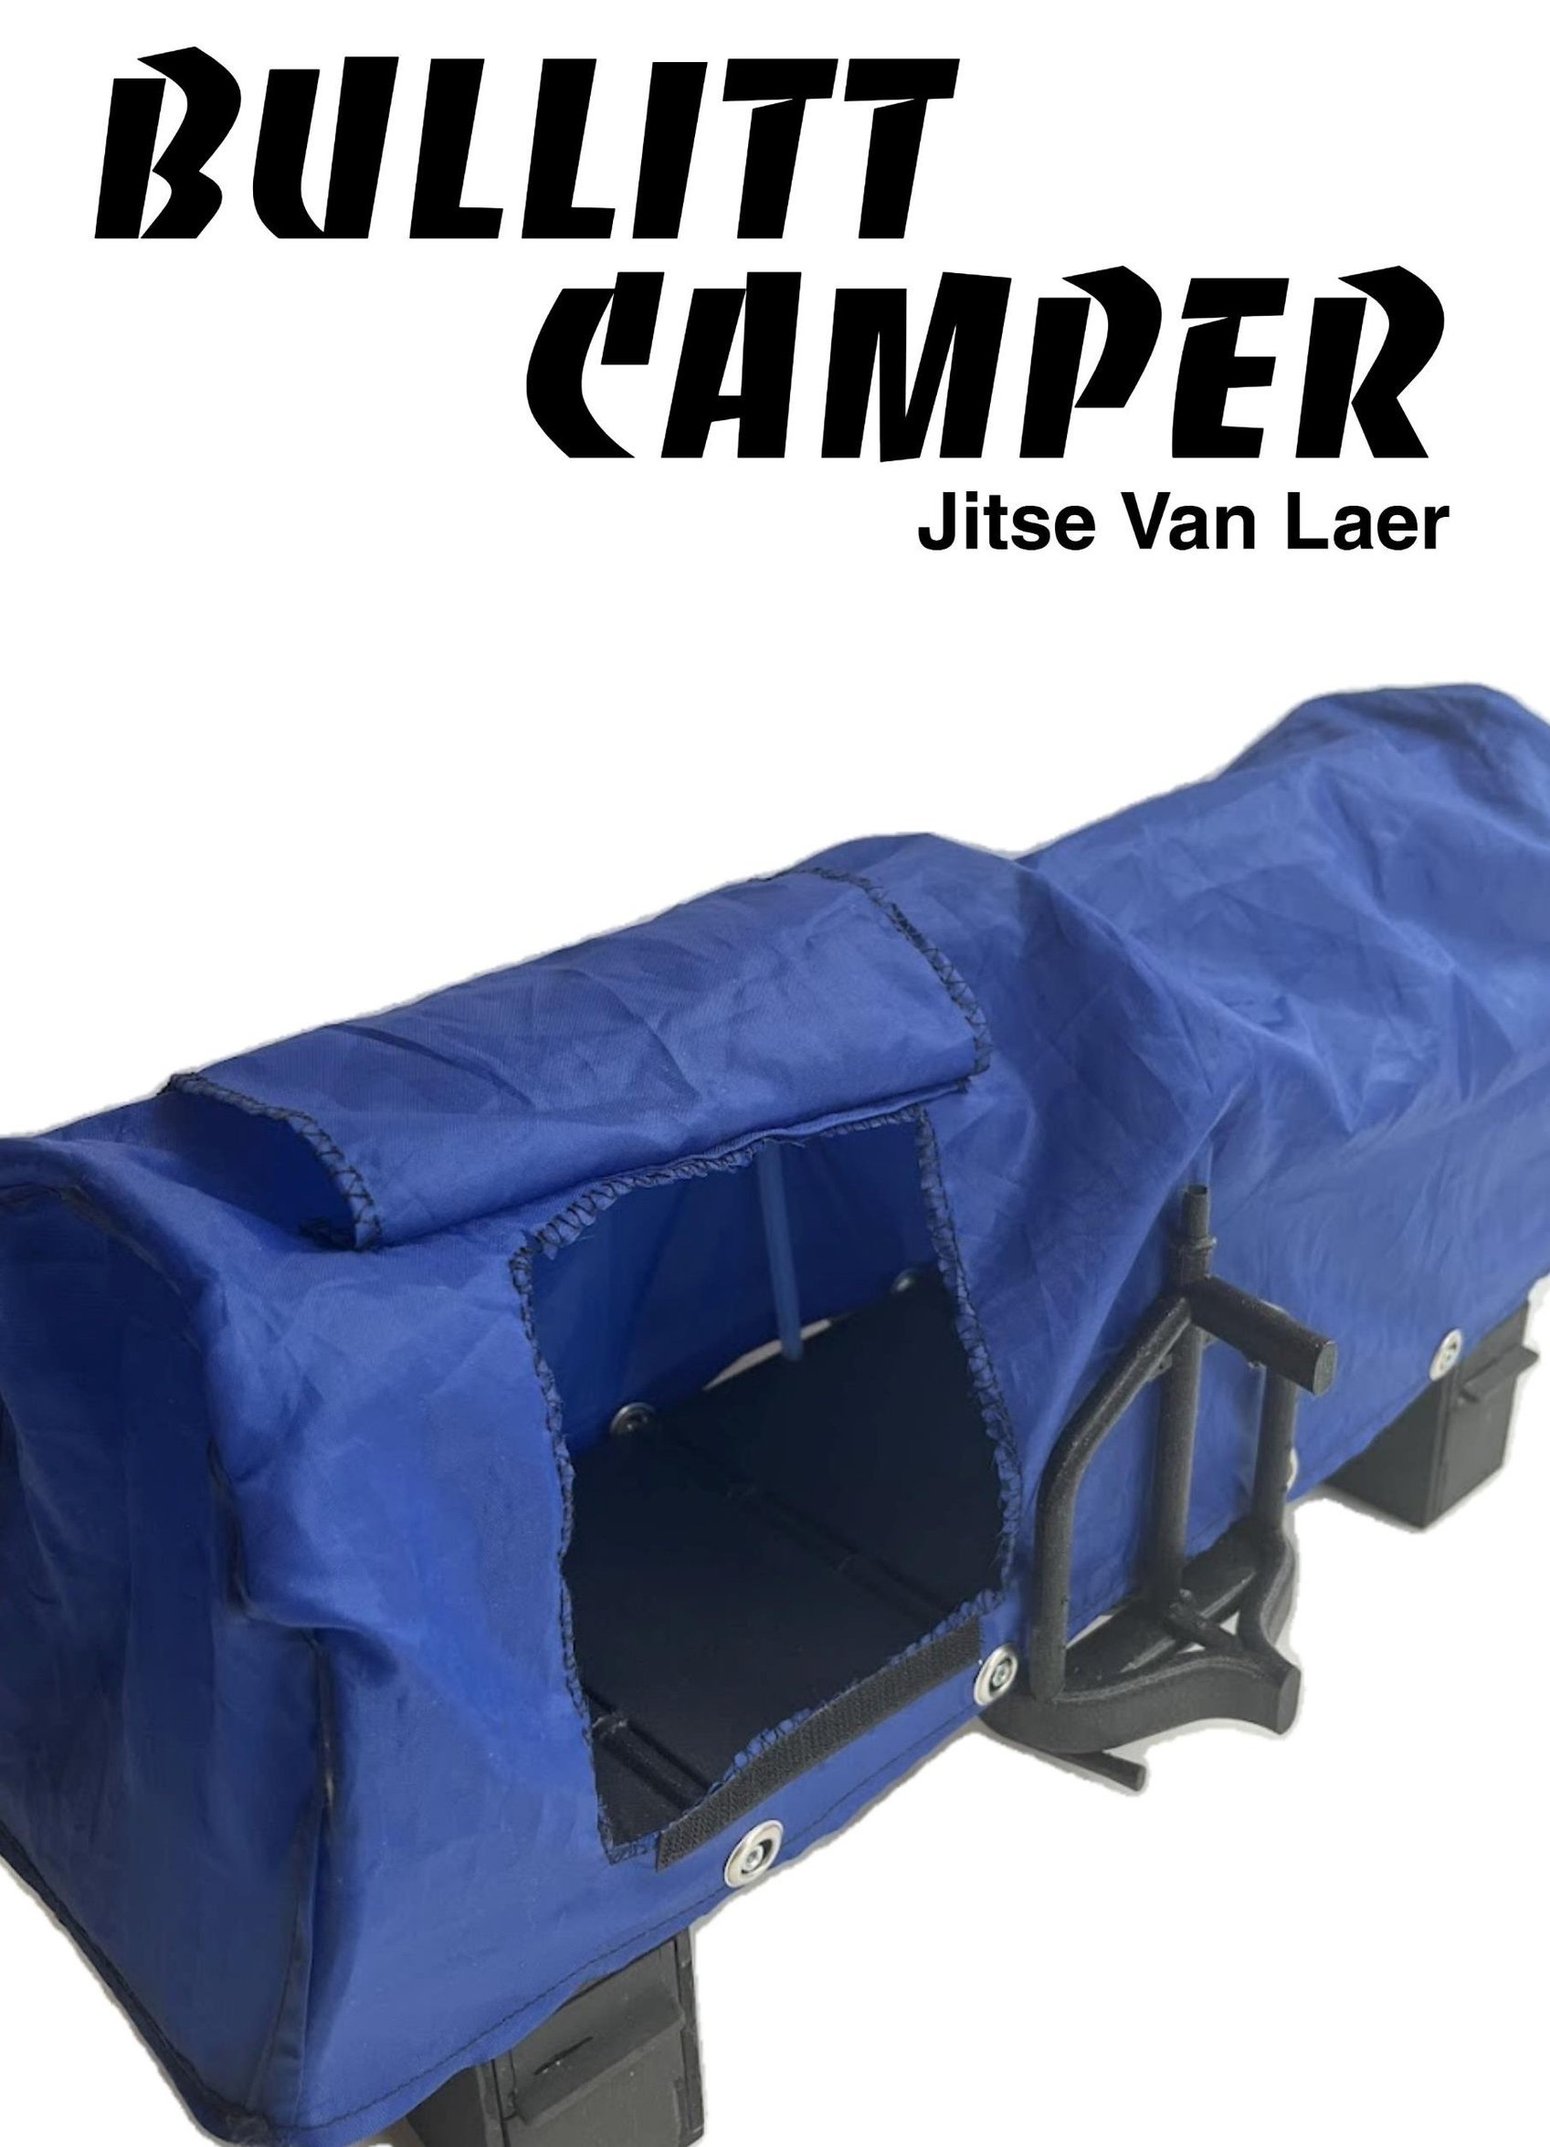
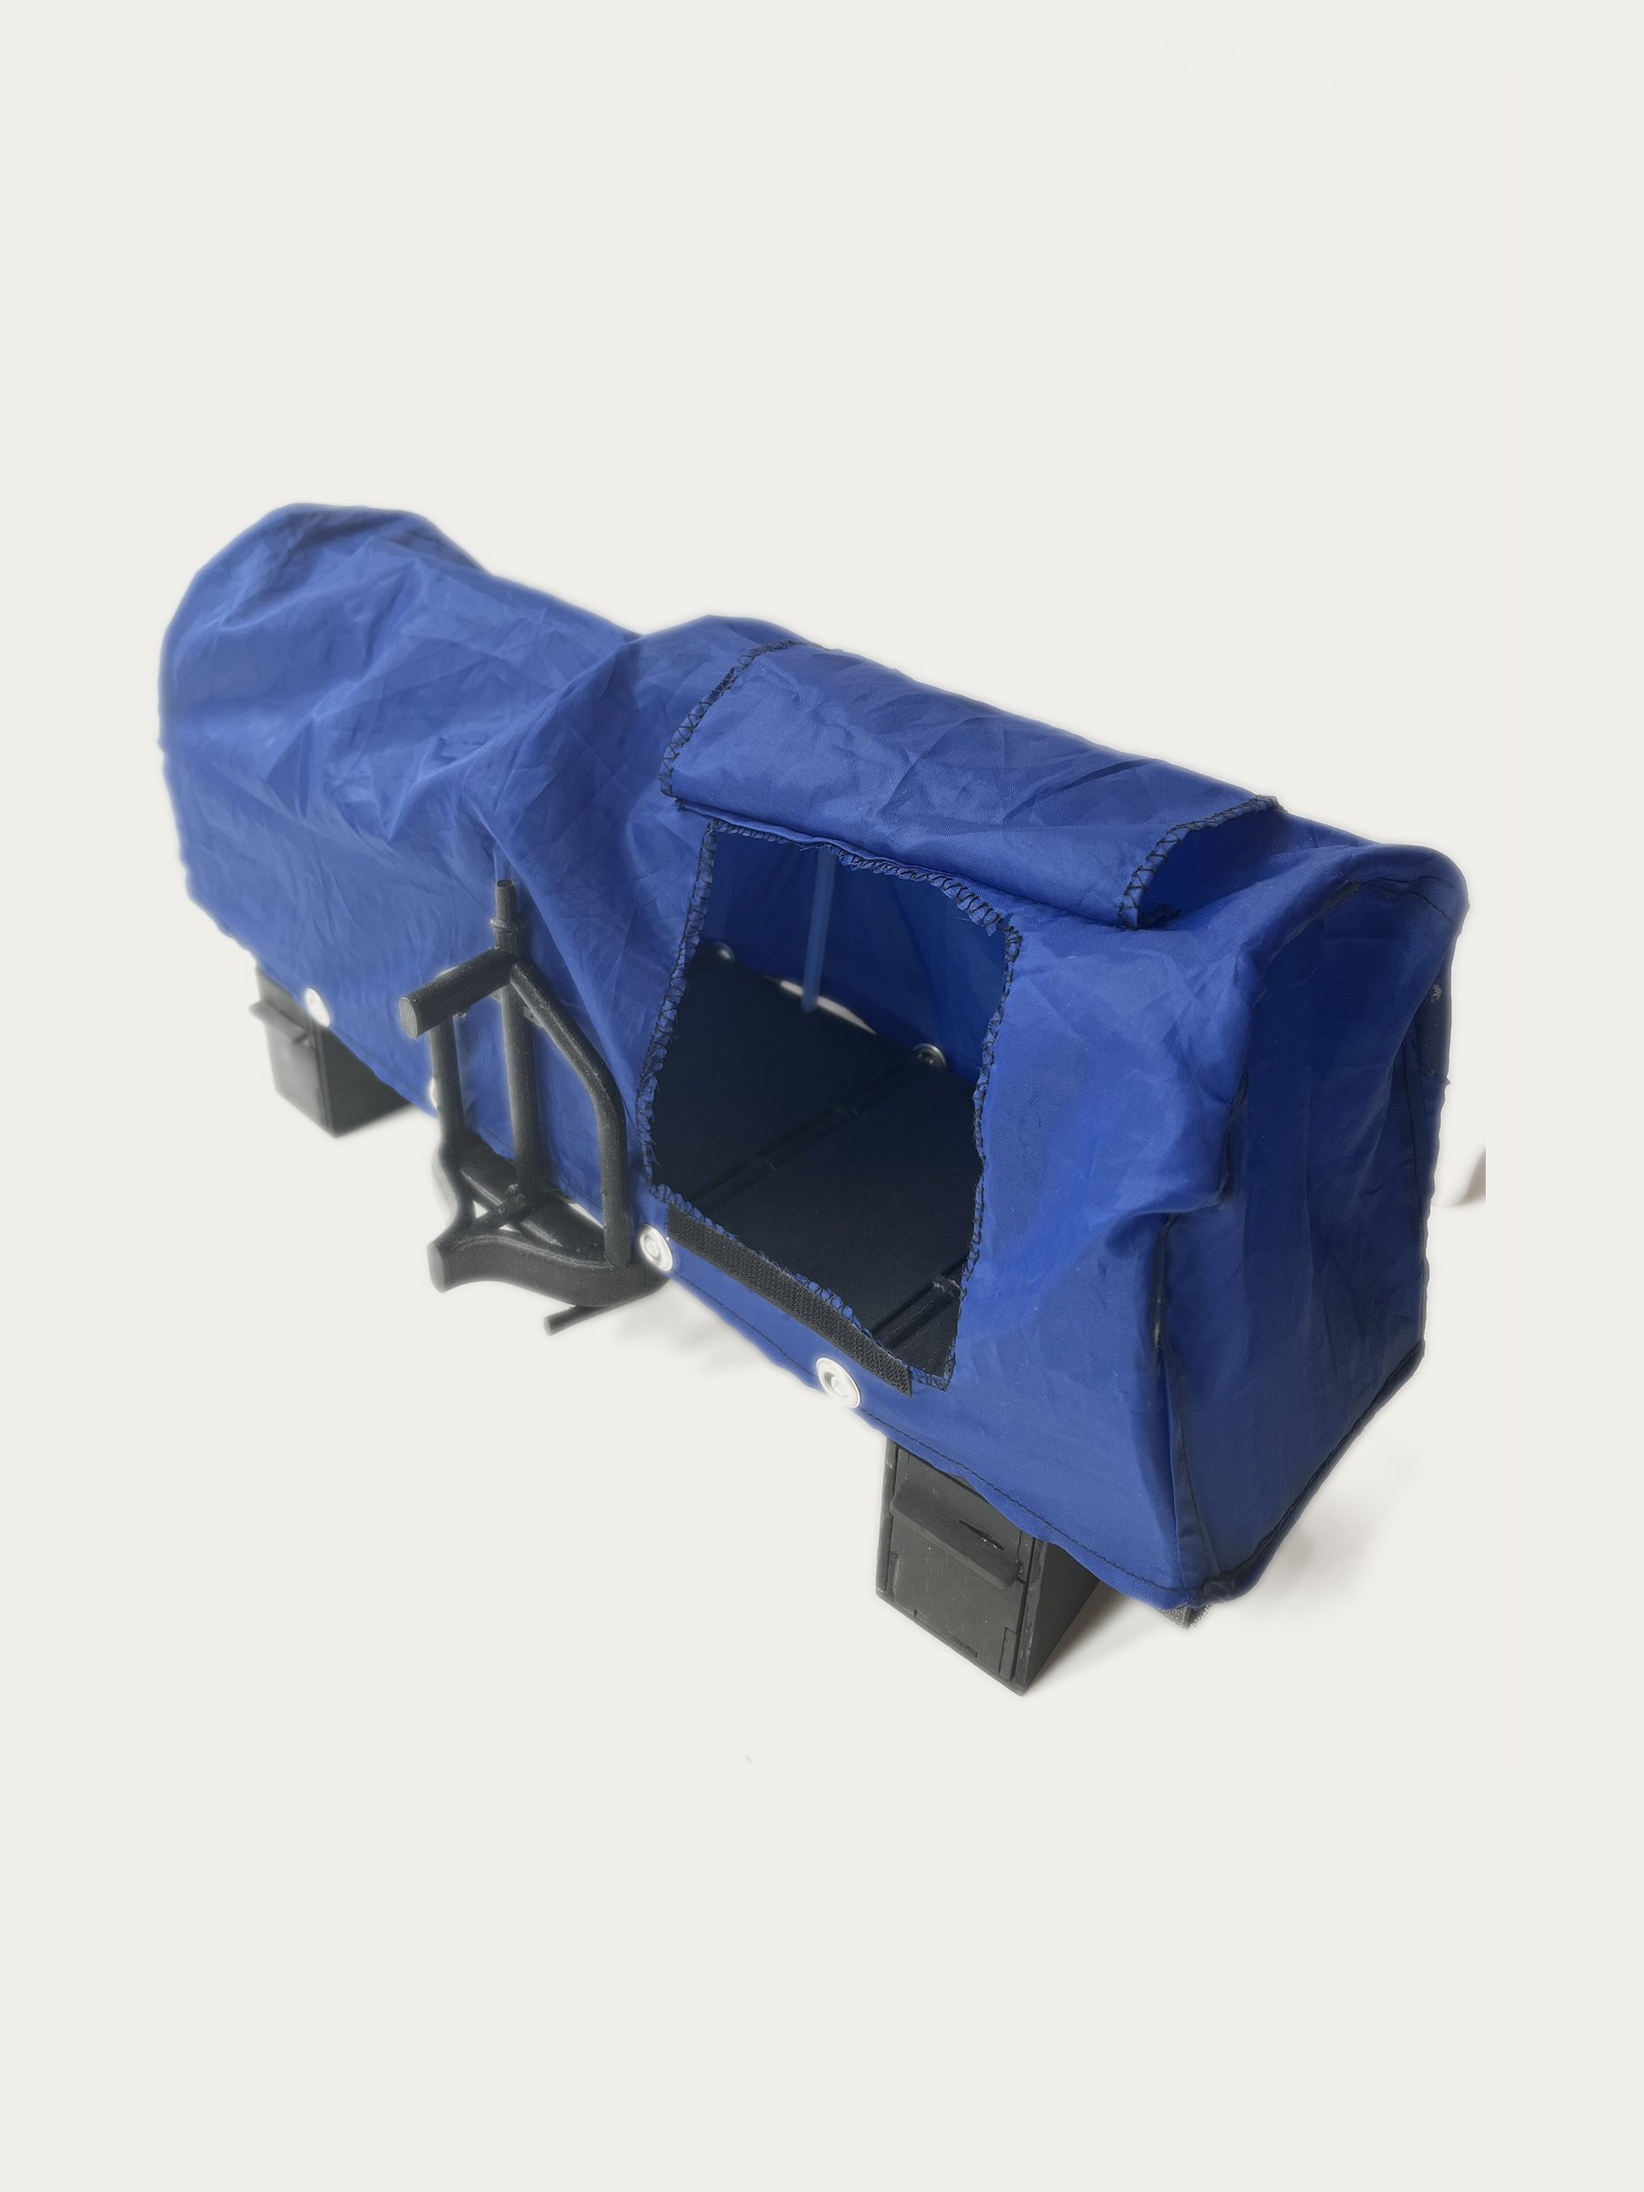
Vervang beelden van de Bullitt Camper door betere foto's

diff --git a/src/content/projecten/bullitt-camper/index.md b/src/content/projecten/bullitt-camper/index.md
@@ -41,10 +41,10 @@ techniekblokken:
     tekst: 'Om de stevigheid te testen, bouwde ik de helft van de constructie op ware grootte. Zo leerde ik dat de bak beter onder het buitenste paneel staat dan helemaal aan het uiteinde, zodat het gewicht beter verdeeld wordt.'
 cover:
   src: ./cover.jpg
-  alt: 'Schaalmodel van de Bullitt Camper: blauwe tent op een zwart opklapbaar platform'
+  alt: 'Schaalmodel van de Bullitt Camper: blauwe tent op twee zwarte opbergbakken, met de fietshouder vooraan'
 coverOrigineel:
   src: ./cover-origineel.jpg
-  alt: 'Titelblad Bullitt Camper met het schaalmodel en de blauwe tent'
+  alt: 'Schaalmodel van de Bullitt Camper met blauwe tent en open ingang, op een lichte achtergrond'
 beelden:
   - src: ./bullitt-camper-idee-01.jpg
     rol: idee
@@ -64,72 +64,49 @@ beelden:
   - src: ./bullitt-camper-idee-30.jpg
     rol: idee
     alt: 'Schetsen van een bak met hangslot en een slot aan de zijkant'
-  - src: ./bullitt-camper-idee-34.jpg
+  - src: ./bullitt-camper-idee-50.jpg
     rol: idee
-    alt: 'Kartonmodel van een platform met drie papieren bogen'
-  - src: ./bullitt-camper-idee-37.jpg
+    alt: 'Kartonmodel van een vijfhoekige bak met vakken, in de hand gehouden'
+  - src: ./bullitt-camper-idee-51.jpg
     rol: idee
-    alt: 'Kartonmodel van een zeshoekige bak met uitklapbaar platform'
-  - src: ./bullitt-camper-idee-41.jpg
+    alt: 'Kartonmodel in de vorm van een huisje met opbergvakken'
+  - src: ./bullitt-camper-idee-52.jpg
     rol: idee
-    alt: 'Finaal kartonmodel van de ondergrond met twee opbergvakken'
-  - src: ./bullitt-camper-idee-46.jpg
+    alt: 'Kartonmodel van een bak met twee vakken'
+  - src: ./bullitt-camper-idee-53.jpg
+    rol: idee
+    alt: 'Tentframe uit bouwpakketstaven met vier poten'
+  - src: ./bullitt-camper-idee-54.jpg
+    rol: idee
+    alt: 'Tentframe met twee gekruiste blauwe bogen op een rechthoekige basis'
+  - src: ./bullitt-camper-idee-55.jpg
     rol: idee
     alt: 'Tentframe met drie witte bogen op een rechthoekige basis'
-  - src: ./bullitt-camper-idee-47.jpg
+  - src: ./bullitt-camper-idee-56.jpg
     rol: idee
-    alt: 'Testtent uit geel doek over witte bogen, vooraanzicht'
+    alt: 'Testtent uit geel doek over witte en blauwe bogen'
+  - src: ./bullitt-camper-idee-57.jpg
+    rol: idee
+    alt: 'Ingekleurde schets van een bakfiets met een tent op de laadbak'
   - src: ./bullitt-camper-idee-49.jpg
     rol: idee
     alt: 'Ingekleurd storyboard: van losse fietstassen naar een afsluitbare bak met tent'
-  - src: ./bullitt-camper-resultaat-01.jpg
-    rol: resultaat
-    alt: 'Gesloten zwarte bak van het schaalmodel met de stuurhouder ervoor'
-  - src: ./bullitt-camper-resultaat-02.jpg
-    rol: resultaat
-    alt: 'Gesloten zwarte bak van het schaalmodel, vooraanzicht'
-  - src: ./bullitt-camper-resultaat-03.jpg
-    rol: resultaat
-    alt: 'Opbergbak met uitgeschoven lade van het schaalmodel'
-  - src: ./bullitt-camper-resultaat-04.jpg
-    rol: resultaat
-    alt: 'Uitgeklapt platform van het schaalmodel op twee opbergbakken'
-  - src: ./bullitt-camper-resultaat-05.jpg
-    rol: resultaat
-    alt: 'Detail van een opbergbak onder het uitgeklapte platform'
-  - src: ./bullitt-camper-resultaat-06.jpg
-    rol: resultaat
-    alt: 'Schaalmodel met blauwe tent op het gras'
-  - src: ./bullitt-camper-resultaat-07.jpg
-    rol: resultaat
-    alt: 'Blauw tentzeil met een flexibele buis als boog'
-  - src: ./bullitt-camper-resultaat-08.jpg
-    rol: resultaat
-    alt: 'Blauw tentzeil met boog, zijaanzicht'
-  - src: ./bullitt-camper-resultaat-09.jpg
-    rol: resultaat
-    alt: 'Blauwe tent bevestigd op de zwarte opbergbakken met drukknopen'
-  - src: ./bullitt-camper-resultaat-10.jpg
-    rol: resultaat
-    alt: 'Detail van het zwarte geprinte platform met gaten voor de bogen'
-  - src: ./bullitt-camper-resultaat-11.jpg
-    rol: resultaat
-    alt: 'Schaalmodel met opengeklapt deksel en een uitgeschoven lade'
-  - src: ./bullitt-camper-resultaat-12.jpg
-    rol: resultaat
-    alt: 'Schaalmodel met blauwe tent op zwarte opbergbakken'
-  - src: ./bullitt-camper-techniek-01.jpg
+  - src: ./bullitt-camper-techniek-08.jpg
     rol: techniek
     titel: '3D printen'
-    alt: 'Geprinte testbak die onder een platformdeel schuift'
-  - src: ./bullitt-camper-techniek-02.jpg
+    alt: 'Zwarte 3D geprinte bak naast een deel van het platform'
+  - src: ./bullitt-camper-techniek-09.jpg
     rol: techniek
     titel: '3D printen'
-    alt: 'Detail van een geprint platformdeel met schuifrail'
-  - src: ./bullitt-camper-techniek-03.jpg
+    alt: 'Zwarte 3D geprinte bak met twee schuiven'
+  - src: ./bullitt-camper-techniek-10.jpg
     rol: techniek
     titel: '3D printen'
-    alt: 'Geprint prototype van het schuifsysteem met twee bakken'
+    alt: 'Geprinte bak met een uitgeschoven lade'
+  - src: ./bullitt-camper-techniek-11.jpg
+    rol: techniek
+    titel: '3D printen'
+    alt: 'Geprint schaalmodel met opengeklapt platform en uitgeschoven lade'
   - src: ./bullitt-camper-techniek-04.jpg
     rol: techniek
     titel: 'Prototype op ware grootte'
@@ -146,4 +123,25 @@ beelden:
     rol: techniek
     titel: 'Prototype op ware grootte'
     alt: 'Iemand ligt met een matje op het prototype op ware grootte'
+  - src: ./bullitt-camper-resultaat-13.jpg
+    rol: resultaat
+    alt: 'Schaalmodel van de Bullitt Camper met blauwe tent in het gras'
+  - src: ./bullitt-camper-resultaat-14.jpg
+    rol: resultaat
+    alt: 'Schaalmodel met blauwe tent en open ingang in het gras'
+  - src: ./bullitt-camper-resultaat-15.jpg
+    rol: resultaat
+    alt: 'Schaalmodel met blauwe tent schuin van voren, in het gras'
+  - src: ./bullitt-camper-resultaat-16.jpg
+    rol: resultaat
+    alt: 'Close-up van de open ingang van de blauwe tent met het zwarte platform'
+  - src: ./bullitt-camper-resultaat-17.jpg
+    rol: resultaat
+    alt: 'Uitgeklapt zwart platform op de opbergbakken, met de fietshouder'
+  - src: ./bullitt-camper-resultaat-18.jpg
+    rol: resultaat
+    alt: 'Uitgeklapt platform op de opbergbakken van opzij'
+  - src: ./bullitt-camper-resultaat-19.jpg
+    rol: resultaat
+    alt: 'Dichtgeklapte zwarte bak van het schaalmodel'
 ---
